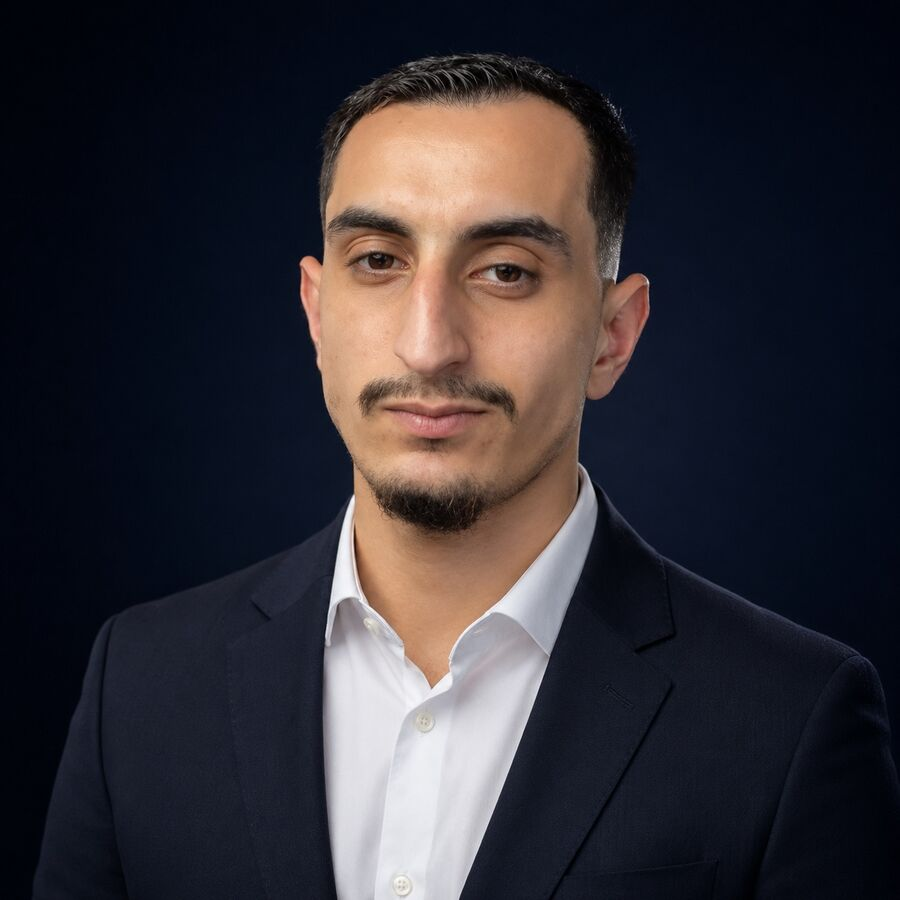
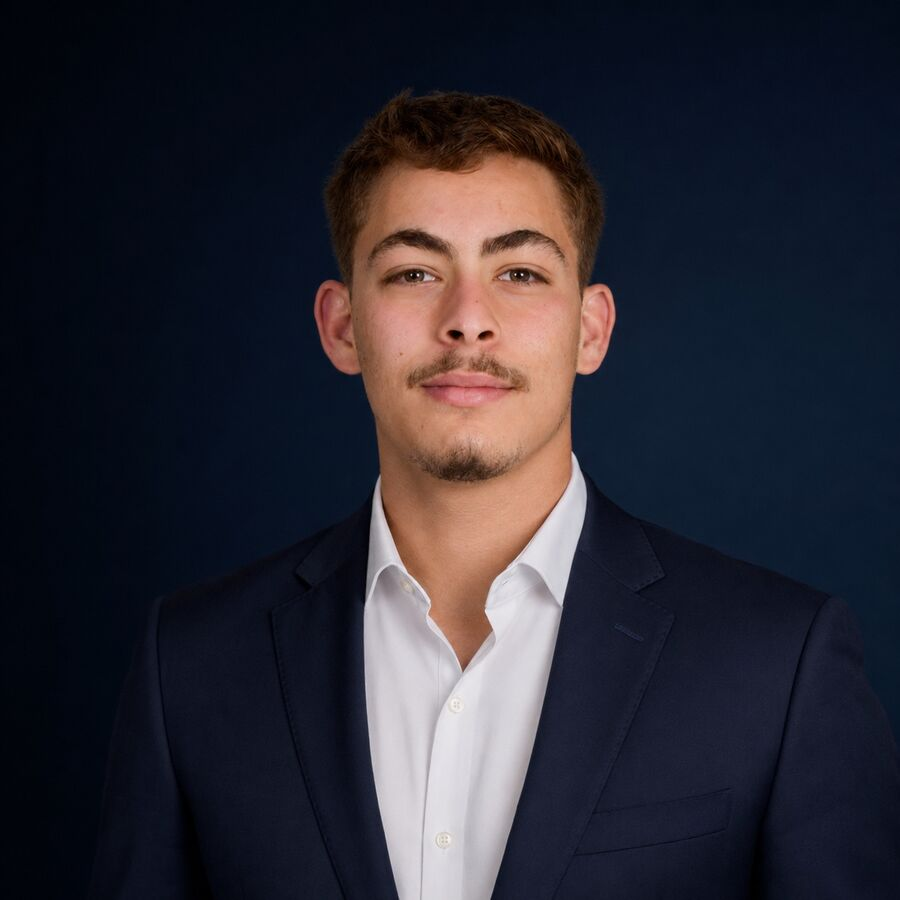
Fix navigation, branding, and founder photos

diff --git a/index.html b/index.html
@@ -1,13 +1,13 @@
-<!doctype html><html lang="en"><head><meta charset="utf-8"><meta name="viewport" content="width=device-width,initial-scale=1"><title>Grow With You — We Build What Should Exist</title><meta name="description" content="A founder-led technology company building Crypora and Tripfly while helping ambitious people grow through real product work."><style>
+<!doctype html><html lang="en"><head><meta charset="utf-8"><meta name="viewport" content="width=device-width,initial-scale=1"><title>GrowwithyouU — We Build What Should Exist</title><meta name="description" content="GrowwithyouU is a founder-led technology company building Crypora and Tripfly while helping ambitious people grow through real product work."><style>
 :root{--ink:#07111f;--paper:#eef0ea;--acid:#bafc62;--line:#ffffff24}*{box-sizing:border-box}html{scroll-behavior:smooth}body{margin:0;background:var(--ink);color:#f6f7f4;font-family:Arial,sans-serif}a{color:inherit;text-decoration:none}.shell{width:min(1180px,calc(100% - 40px));margin:auto}header{height:84px;display:flex;align-items:center;justify-content:space-between;border-bottom:1px solid var(--line)}.brand{display:flex;align-items:center;gap:12px;font-weight:700}.brand img{width:46px;height:46px;border-radius:50%;object-fit:cover}nav{display:flex;gap:30px;color:#b7c0c8;font-size:13px}.pill{padding:11px 16px;border:1px solid #ffffff47;border-radius:99px;font-size:12px}.hero{min-height:730px;padding:72px 0;position:relative;overflow:hidden}.label{font-size:10px;letter-spacing:.18em;text-transform:uppercase;color:#93a0aa}.hero h1,.pageHero h1{font-size:clamp(62px,10vw,132px);line-height:.87;letter-spacing:-.07em;margin:85px 0 35px}.hero h1 em,.cta h2 em{font:italic 1em Georgia;color:var(--acid)}.hero>p,.pageHero>p{max-width:650px;color:#aeb8c0;font-size:18px;line-height:1.65}.orbit{position:absolute;width:480px;height:480px;border:1px solid #bafc6240;border-radius:50%;right:-30px;bottom:-50px;background:radial-gradient(circle,#1e5b7188,#07111f33 60%)}.orbit:before,.orbit:after{content:"";position:absolute;border:1px solid #ffffff25;border-radius:50%;inset:55px}.orbit:after{inset:125px}.orb{position:absolute;width:80px;height:80px;border-radius:50%;background:linear-gradient(145deg,#ddd,#63717d 55%,#101f2b);left:35px;top:150px}.statement,.story{background:var(--paper);color:#07111f;padding:120px 0}.two{display:grid;grid-template-columns:1fr 3fr;gap:45px}.two h2,.sectionHead h2,.teamBelief h2{font-size:clamp(43px,6vw,76px);line-height:1;letter-spacing:-.055em;margin:0}.two h2 span{font:italic 1em Georgia;color:#456474}.two p,.story p{max-width:720px;color:#56626a;font-size:18px;line-height:1.75}.facts{display:grid;grid-template-columns:repeat(3,1fr);border-top:1px solid #c8cdca;margin-top:50px}.facts div{padding-top:24px;display:flex;flex-direction:column;gap:8px}.facts b{font-size:34px}.facts span{font-size:12px;color:#66717a}.section{padding:120px 0}.sectionHead{display:flex;justify-content:space-between;align-items:start;margin-bottom:60px}.sectionHead h2{text-align:right}.venture{border:1px solid var(--line);padding:24px;margin:20px 0;display:grid;grid-template-columns:1fr 1.2fr;gap:40px;min-height:480px;align-items:end}.venture.light{background:#d7dad5;color:#07111f}.venture h3{font-size:62px;margin:28px 0 12px;letter-spacing:-.055em}.venture p{color:#9eabb5;line-height:1.65}.venture.light p{color:#56626a}.art{height:390px;background:radial-gradient(circle,#17455a,#0a1724 65%);display:grid;place-items:center;font-size:30px;letter-spacing:.2em}.light .art{background:radial-gradient(circle at 60% 35%,#f2dbaf,#83a1ad 42%,#243c4c)}.principles{background:#101d2a;padding:110px 0}.cards,.teamGrid,.values,.contactGrid{display:grid;grid-template-columns:repeat(3,1fr);gap:18px;margin-top:55px}.cards article,.values article,.contactGrid>*{border:1px solid var(--line);padding:35px;min-height:250px}.cards b,.values b{color:var(--acid);font-size:10px}.cards h3,.values h3{font-size:31px;margin-top:55px}.cards p,.values p{color:#9ba7b1;line-height:1.6}.teamGrid img{width:100%;aspect-ratio:1/1.18;object-fit:cover}.teamGrid span{font-size:10px;color:#84919c;letter-spacing:.12em;text-transform:uppercase}.teamGrid h3{font-size:27px;margin:10px 0}.support{background:var(--paper);color:#07111f;padding:55px 0}.support .shell{display:flex;justify-content:space-between;align-items:center}.partners{display:flex;gap:45px;font-size:20px;align-items:center}.cta{padding:130px 0}.cta h2{font-size:clamp(58px,8vw,105px);line-height:.94;letter-spacing:-.065em}.pageHero{padding:110px 0 90px;border-bottom:1px solid var(--line)}.pageHero h1{font-size:clamp(58px,8vw,104px);margin:50px 0 30px}.leader{display:grid;grid-template-columns:450px 1fr;gap:80px;align-items:center;padding:60px 0 90px;border-bottom:1px solid var(--line)}.leader:nth-child(even){grid-template-columns:1fr 450px}.leader:nth-child(even) img{order:2}.leader img{width:100%;height:520px;object-fit:cover}.leader h2{font-size:58px;margin:20px 0}.leader p{color:#aab4bc;line-height:1.7}.teamBelief{background:var(--paper);color:#07111f;padding:110px 0}.teamBelief p{color:#59646c;max-width:700px;line-height:1.7}.ventureFull{display:grid;grid-template-columns:70px 1fr 1fr;gap:50px;padding:80px 0;border-bottom:1px solid var(--line)}.ventureFull h2{font-size:68px;margin:20px 0}.ventureFull p,.ventureFull li{color:#9eabb5;line-height:1.65}.contactGrid strong{display:block;font-size:20px;margin-top:80px}.contactGrid span{font-size:10px;color:#84919c;text-transform:uppercase;letter-spacing:.12em}footer{background:#050c15;border-top:1px solid var(--line);padding:60px 0 25px}.footerGrid{display:grid;grid-template-columns:2fr 1fr 1fr;gap:60px}.footerGrid div{display:flex;flex-direction:column;gap:12px;color:#99a5ae}.footerGrid strong{color:white;font-size:23px}.copy{border-top:1px solid var(--line);margin-top:45px;padding-top:20px;font-size:10px;color:#66727d;display:flex;justify-content:space-between}
 @media(max-width:760px){header{height:72px}.brand span,header .pill{display:none}nav{gap:14px;font-size:11px}.hero{min-height:700px}.hero h1{font-size:62px}.orbit{width:380px;height:380px;right:-220px}.two,.venture,.leader,.leader:nth-child(even),.ventureFull{grid-template-columns:1fr}.sectionHead{display:block}.sectionHead h2{text-align:left;margin-top:30px}.facts,.cards,.teamGrid,.values,.contactGrid,.footerGrid{grid-template-columns:1fr}.leader:nth-child(even) img{order:0}.leader img{height:430px}.support .shell{display:block}.partners{margin-top:25px;flex-wrap:wrap}.art{height:300px}.pageHero h1{font-size:55px}}
-</style></head><body><header class="shell"><a class="brand" href="/"><img src="/assets/gw-logo.jpg" alt="Grow With You logo"><span>Grow With You</span></a><nav><a href="/company">Company</a><a href="/ventures">Ventures</a><a href="/team">Leadership</a><a href="/contact">Contact</a></nav><a class="pill" href="https://www.linkedin.com/company/growwithyouu/">LinkedIn ↗</a></header><main id="app"></main><footer><div class="shell footerGrid"><div><strong>Grow With You</strong><p>Enhancing human utility through intelligent products and meaningful opportunity.</p></div><div><b>Explore</b><a href="/company">Company</a><a href="/ventures">Ventures</a><a href="/team">Leadership</a></div><div><b>Connect</b><a href="mailto:contact@growwithyouu.com">Email ↗</a><a href="https://www.linkedin.com/company/growwithyouu/">LinkedIn ↗</a><span>Haifa, Israel</span></div></div><div class="shell copy"><span>© 2026 Grow With You</span><span>Building for the world.</span></div></footer><script>
+</style></head><body><header class="shell"><a class="brand" href="/"><img src="/assets/gw-logo.jpg" alt="GrowwithyouU logo"><span>GrowwithyouU</span></a><nav><a href="/company">Company</a><a href="/ventures">Ventures</a><a href="/team">Leadership</a><a href="/contact">Contact</a></nav><a class="pill" href="https://www.linkedin.com/company/growwithyouu/">LinkedIn ↗</a></header><main id="app"></main><footer><div class="shell footerGrid"><div><strong>GrowwithyouU</strong><p>Enhancing human utility through intelligent products and meaningful opportunity.</p></div><div><b>Explore</b><a href="/company">Company</a><a href="/ventures">Ventures</a><a href="/team">Leadership</a></div><div><b>Connect</b><a href="mailto:contact@growwithyouu.com">Email ↗</a><a href="https://www.linkedin.com/company/growwithyouu/">LinkedIn ↗</a><span>Haifa, Israel</span></div></div><div class="shell copy"><span>© 2026 GrowwithyouU</span><span>Building for the world.</span></div></footer><script>
 const A="/assets",people=[["Alaa Miari","Founder & CEO","alaa","https://www.linkedin.com/in/alaami20"],["Mahmoud Khatib","Co-Founder & CTO","mahmoud","https://www.linkedin.com/in/mahmoud-khatib-843068344"],["Mustafa Kewan","Co-Founder · COO & CMO","mustafa","https://www.linkedin.com/in/mustafa-kewan-a68121429"]];
 const team=()=>people.map(p=>`<a href="${p[3]}"><img src="${A}/${p[2]}.jpg" alt="${p[0]}"><span>${p[1]}</span><h3>${p[0]}</h3></a>`).join("");
 const support=`<section class="support"><div class="shell"><span class="label">Supported by startup ecosystems</span><div class="partners"><b>Microsoft</b> for Startups <b>aws</b> startups</div></div></section>`;
-const home=`<section class="hero shell"><span class="label">Founder-led technology company · Haifa</span><h1>We build what<br><em>should exist.</em></h1><p>Grow With You builds intelligent products and creates a place where ambitious people gain real experience, take ownership, and grow with the company.</p><div class="orbit"><i class="orb"></i></div></section><section class="statement"><div class="shell two"><span class="label">01 · Who we are</span><div><h2>Not an agency. A place where <span>people and products</span> grow together.</h2><p>We build our own ventures around real human problems. The work is serious, the standards are high, and talented people build experience by shipping products—not by waiting for permission.</p><div class="facts"><div><b>02</b><span>Focused ventures</span></div><div><b>20+</b><span>People building together</span></div><div><b>01</b><span>Shared belief</span></div></div></div></div></section><section class="section shell"><div class="sectionHead"><span class="label">02 · Our ventures</span><h2>Two products.<br>One way of building.</h2></div><article class="venture"><div><span class="label">Financial intelligence · AI</span><h3>Crypora</h3><p>An AI crypto guide bringing intelligence, learning, practice, and responsible tools into one clear experience.</p></div><div class="art">CRYPORA</div></article><article class="venture light"><div><span class="label">Travel intelligence · AI</span><h3>Tripfly</h3><p>A smarter travel companion bringing discovery, planning, and the journey into one effortless experience.</p></div><div class="art">TRIPFLY</div></article></section><section class="principles"><div class="shell"><span class="label">03 · How we build</span><div class="cards"><article><b>01</b><h3>Start with the problem.</h3><p>Technology matters only when it creates human utility.</p></article><article><b>02</b><h3>Build with ownership.</h3><p>Everyone close to the work shares responsibility for the outcome.</p></article><article><b>03</b><h3>Grow through the work.</h3><p>The work is where real experience begins.</p></article></div></div></section><section class="section shell"><div class="sectionHead"><span class="label">04 · Leadership</span><h2>Close to the work.<br>Aligned on the future.</h2></div><div class="teamGrid">${team()}</div></section>${support}<section class="cta shell"><span class="label">05 · What’s next</span><h2>The future is not<br>something we wait for.<br><em>We build it.</em></h2></section>`;
+const home=`<section class="hero shell"><span class="label">Founder-led technology company · Haifa</span><h1>We build what<br><em>should exist.</em></h1><p>GrowwithyouU builds intelligent products and creates a place where ambitious people gain real experience, take ownership, and grow with the company.</p><div class="orbit"><i class="orb"></i></div></section><section class="statement"><div class="shell two"><span class="label">01 · Who we are</span><div><h2>Not an agency. A place where <span>people and products</span> grow together.</h2><p>We build our own ventures around real human problems. The work is serious, the standards are high, and talented people build experience by shipping products—not by waiting for permission.</p><div class="facts"><div><b>02</b><span>Focused ventures</span></div><div><b>20+</b><span>People building together</span></div><div><b>01</b><span>Shared belief</span></div></div></div></div></section><section class="section shell"><div class="sectionHead"><span class="label">02 · Our ventures</span><h2>Two products.<br>One way of building.</h2></div><article class="venture"><div><span class="label">Financial intelligence · AI</span><h3>Crypora</h3><p>An AI crypto guide bringing intelligence, learning, practice, and responsible tools into one clear experience.</p></div><div class="art">CRYPORA</div></article><article class="venture light"><div><span class="label">Travel intelligence · AI</span><h3>Tripfly</h3><p>A smarter travel companion bringing discovery, planning, and the journey into one effortless experience.</p></div><div class="art">TRIPFLY</div></article></section><section class="principles"><div class="shell"><span class="label">03 · How we build</span><div class="cards"><article><b>01</b><h3>Start with the problem.</h3><p>Technology matters only when it creates human utility.</p></article><article><b>02</b><h3>Build with ownership.</h3><p>Everyone close to the work shares responsibility for the outcome.</p></article><article><b>03</b><h3>Grow through the work.</h3><p>The work is where real experience begins.</p></article></div></div></section><section class="section shell"><div class="sectionHead"><span class="label">04 · Leadership</span><h2>Close to the work.<br>Aligned on the future.</h2></div><div class="teamGrid">${team()}</div></section>${support}<section class="cta shell"><span class="label">05 · What’s next</span><h2>The future is not<br>something we wait for.<br><em>We build it.</em></h2></section>`;
 const hero=(k,t,c)=>`<section class="pageHero shell"><span class="label">${k}</span><h1>${t}</h1><p>${c}</p></section>`;
-const company=hero("The company","Built around people.<br>Proven through products.","Grow With You is a founder-led technology company creating intelligent ventures while opening the door for ambitious people to gain real experience, ownership, and a path to grow.")+`<section class="story"><div class="shell two"><span class="label">Why we exist</span><div><h2>Potential is everywhere.<br>Opportunity is not.</h2><p>We know what it means to be told that experience is required before anyone gives you the chance to earn it. Grow With You was built to break that loop.</p><p>This is not a training simulation and it is not an agency model. We build our own ventures, solve difficult problems, and create value for real users.</p></div></div></section><section class="section shell"><span class="label">Our operating system</span><div class="values"><article><b>01</b><h3>Human utility</h3><p>We build what makes people more capable.</p></article><article><b>02</b><h3>Earned trust</h3><p>We communicate honestly and design responsibly.</p></article><article><b>03</b><h3>Ownership</h3><p>People closest to the work care for the outcome.</p></article></div></section>${support}`;
+const company=hero("The company","Built around people.<br>Proven through products.","GrowwithyouU is a founder-led technology company creating intelligent ventures while opening the door for ambitious people to gain real experience, ownership, and a path to grow.")+`<section class="story"><div class="shell two"><span class="label">Why we exist</span><div><h2>Potential is everywhere.<br>Opportunity is not.</h2><p>We know what it means to be told that experience is required before anyone gives you the chance to earn it. GrowwithyouU was built to break that loop.</p><p>This is not a training simulation and it is not an agency model. We build our own ventures, solve difficult problems, and create value for real users.</p></div></div></section><section class="section shell"><span class="label">Our operating system</span><div class="values"><article><b>01</b><h3>Human utility</h3><p>We build what makes people more capable.</p></article><article><b>02</b><h3>Earned trust</h3><p>We communicate honestly and design responsibly.</p></article><article><b>03</b><h3>Ownership</h3><p>People closest to the work care for the outcome.</p></article></div></section>${support}`;
 const ventures=hero("Our ventures","Focused bets on meaningful problems.","Each venture starts with a real area of friction and is developed as a long-term company.")+`<section class="shell"><article class="ventureFull"><b>01</b><div><span class="label">Financial intelligence · AI</span><h2>Crypora</h2><p>Market intelligence, education, practice, AI mentorship, and responsible trading tools in one clear platform.</p><ul><li>AI Mentor and guided understanding</li><li>Structured learning and practice</li><li>Risk-aware, non-custodial direction</li></ul></div><div class="art">CRYPORA</div></article><article class="ventureFull"><b>02</b><div><span class="label">Travel intelligence · AI</span><h2>Tripfly</h2><p>A smarter travel companion for discovery, planning, and a unified journey.</p><ul><li>Personalized discovery</li><li>Clear visual planning</li><li>Mobile-first experience</li></ul></div><div class="art">TRIPFLY</div></article></section>`;
 const leadership=hero("Leadership","Different strengths.<br>One direction.","Strategy, technology, operations, and growth move together—because strong products are built by aligned people.")+`<section class="shell">${people.map((p,i)=>`<article class="leader"><img src="${A}/${p[2]}.jpg"><div><span class="label">${p[1]}</span><h2>${p[0]}</h2><p>${i===0?"Sets the vision, company direction, and product strategy while creating opportunity through real work.":i===1?"Leads the technical foundation across our ventures, turning ambition into reliable systems and execution.":"Connects operations, brand, and growth, helping the company move with focus and reach its market."}</p><a href="${p[3]}">View LinkedIn profile ↗</a></div></article>`).join("")}</section><section class="teamBelief"><div class="shell"><h2>A growing team learns, builds, and takes ownership with us.</h2><p>Talented people work on meaningful products, build real experience, and grow into bigger responsibilities as the company grows.</p></div></section>`;
 const contact=hero("Contact","Let’s build the right conversation.","For partnerships, investment conversations, talent, or product collaboration, reach us directly.")+`<section class="contactGrid shell"><a href="mailto:contact@growwithyouu.com"><span>Email</span><strong>contact@growwithyouu.com ↗</strong></a><a href="https://www.linkedin.com/company/growwithyouu/"><span>Company</span><strong>LinkedIn ↗</strong></a><div><span>Location</span><strong>Haifa, Israel</strong></div></section>`;
